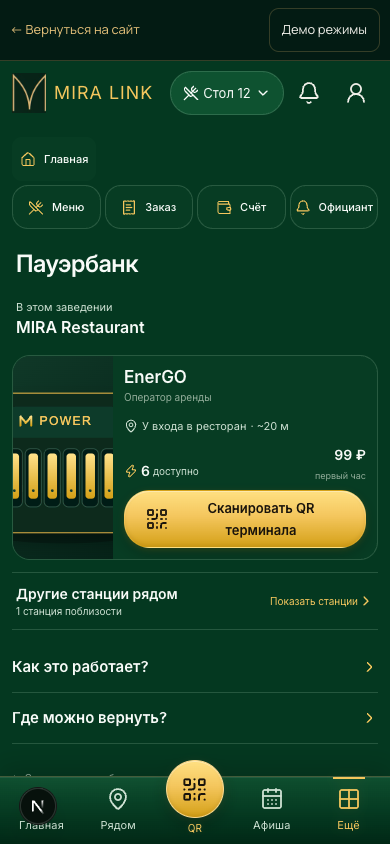
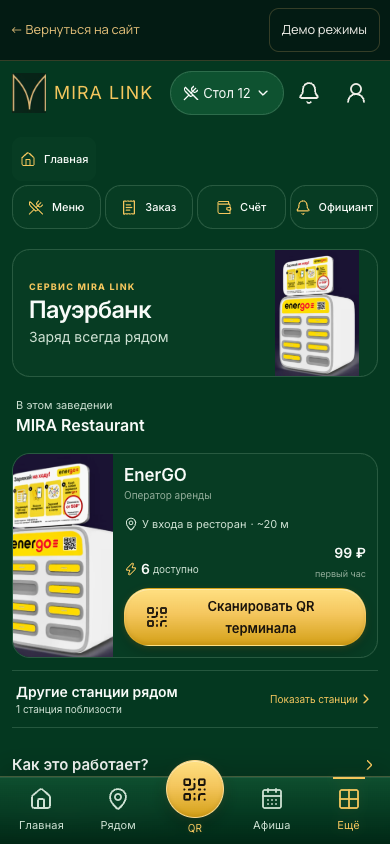
Use real EnerGO station imagery

diff --git a/components/guest/guest-powerbank-service.module.css b/components/guest/guest-powerbank-service.module.css
@@ -1,14 +1,15 @@
 .screen{display:grid;min-width:0;gap:12px;color:var(--guest-text-primary)}
 .screen :is(h2,h3,p){margin:0}.screen button{font-family:inherit}.loading{min-height:180px;display:grid;place-items:center;color:var(--guest-text-secondary)}
 .pageTitle{padding:0 4px}.pageTitle h2{font-size:24px;line-height:30px}.stateLabel,.contextLabel{display:block;color:var(--guest-accent);font-size:9px;line-height:13px;font-weight:750;letter-spacing:.14em}
+.hero{display:grid;min-height:126px;grid-template-columns:minmax(0,1fr) 120px;overflow:hidden;border:1px solid var(--guest-border);border-radius:18px;background:var(--guest-surface)}.hero>div{display:grid;align-content:center;gap:2px;padding:14px 6px 14px 16px}.hero h2{font-size:24px;line-height:30px}.hero p{color:var(--guest-text-secondary);font-size:14px}.hero>img{width:120px;height:126px;object-fit:contain;pointer-events:none;user-select:none}
 .context{display:flex;min-height:52px;align-items:center;justify-content:space-between;gap:12px;padding:2px 4px}.context>div{display:grid}.context>div>span{color:var(--guest-text-secondary);font-size:11px}.context>div>strong{font-size:16px}.context>span{display:flex;align-items:center;gap:5px;color:var(--guest-accent);font-size:12px;white-space:nowrap}.context svg{width:16px}
-.offers{display:grid;gap:10px}.offer{display:grid;grid-template-columns:100px minmax(0,1fr);min-height:166px;overflow:hidden;border:1px solid var(--guest-border);border-radius:18px;background:var(--guest-surface)}.offer>img{width:100px;height:100%;object-fit:cover}.offerBody{display:grid;min-width:0;gap:7px;padding:11px}.offerHeading{display:flex;align-items:start;justify-content:space-between;gap:8px}.offerHeading>div{display:grid;min-width:0}.offerHeading strong{font-size:17px}.offerHeading span{color:var(--guest-text-muted);font-size:10px}.offerHeading em{flex:0 0 auto;padding:3px 6px;border:1px solid var(--guest-border-strong);border-radius:999px;color:var(--guest-accent);font-size:8px;font-style:normal}.offerBody>p{display:flex;align-items:center;gap:4px;color:var(--guest-text-secondary);font-size:11px;line-height:15px}.offerBody>p svg{width:14px}.availability{display:flex;align-items:end;justify-content:space-between;gap:8px}.availability>span{display:flex;align-items:center;gap:3px;color:var(--guest-text-secondary);font-size:10px}.availability>span:last-child{display:grid;text-align:right}.availability strong{color:var(--guest-text-primary);font-size:14px}.availability small{color:var(--guest-text-muted);font-size:9px}.availability svg{width:14px;color:var(--guest-accent)}.offerBody>button{min-height:44px!important;padding-block:6px!important;font-size:13px!important}
+.offers{display:grid;gap:10px}.offer{display:grid;grid-template-columns:100px minmax(0,1fr);min-height:166px;overflow:hidden;border:1px solid var(--guest-border);border-radius:18px;background:var(--guest-surface)}.offer>img{width:100px;height:100%;object-fit:cover;object-position:center 45%;pointer-events:none;user-select:none}.offerBody{display:grid;min-width:0;gap:7px;padding:11px}.offerHeading{display:flex;align-items:start;justify-content:space-between;gap:8px}.offerHeading>div{display:grid;min-width:0}.offerHeading strong{font-size:17px}.offerHeading span{color:var(--guest-text-muted);font-size:10px}.offerHeading em{flex:0 0 auto;padding:3px 6px;border:1px solid var(--guest-border-strong);border-radius:999px;color:var(--guest-accent);font-size:8px;font-style:normal}.offerBody>p{display:flex;align-items:center;gap:4px;color:var(--guest-text-secondary);font-size:11px;line-height:15px}.offerBody>p svg{width:14px}.availability{display:flex;align-items:end;justify-content:space-between;gap:8px}.availability>span{display:flex;align-items:center;gap:3px;color:var(--guest-text-secondary);font-size:10px}.availability>span:last-child{display:grid;text-align:right}.availability strong{color:var(--guest-text-primary);font-size:14px}.availability small{color:var(--guest-text-muted);font-size:9px}.availability svg{width:14px;color:var(--guest-accent)}.offerBody>button{min-height:44px!important;padding-block:6px!important;font-size:13px!important}
 .actionRow{display:flex;width:100%;min-height:58px;align-items:center;justify-content:space-between;gap:12px;padding:8px 4px;border:0;border-block:1px solid var(--guest-border);border-radius:0;color:var(--guest-text-primary);background:transparent;text-align:left}.actionRow>span:first-child{display:grid}.actionRow strong{font-size:14px}.actionRow small{color:var(--guest-text-secondary);font-size:10px}.actionRow>span:last-child{display:flex;align-items:center;color:var(--guest-accent);font-size:10px;white-space:nowrap}.actionRow svg{width:16px}
 .activeRental{display:grid;gap:13px;padding:16px;border:1px solid var(--guest-border-strong);border-radius:20px;background:linear-gradient(145deg,var(--guest-surface-elevated),var(--guest-surface));box-shadow:var(--accent-glow)}.rentalTitle{display:flex;align-items:center;justify-content:space-between;gap:12px}.rentalTitle h3{font-size:21px}.rentalTitle p{color:var(--guest-text-secondary)}.rentalTitle>svg{width:42px;height:42px;color:var(--guest-accent)}.rentalFacts{display:grid;grid-template-columns:repeat(3,minmax(0,1fr));gap:6px}.rentalFacts>span{display:grid;gap:2px;padding:8px;border-radius:12px;background:var(--guest-surface-soft);color:var(--guest-text-secondary);font-size:9px}.rentalFacts strong{color:var(--guest-text-primary);font-size:13px}.activeRental>button{min-height:48px}
 .returnState{display:grid;gap:12px}.returnState>div:nth-child(2){display:grid;gap:3px}.returnState h3{font-size:23px}.returnState p{color:var(--guest-text-secondary);font-size:12px;line-height:17px}.backAction{display:flex;width:max-content;min-height:44px;align-items:center;gap:6px;padding:0;border:0;background:transparent;color:var(--guest-accent)}.backAction svg{width:18px}.returnList{display:grid;gap:8px}.returnStation{display:flex;align-items:center;justify-content:space-between;gap:10px;padding:12px;border:1px solid var(--guest-border);border-radius:16px;background:var(--guest-surface)}.returnStation>div{display:grid}.returnStation span,.returnStation small{color:var(--guest-text-secondary);font-size:10px}.returnStation>div:last-child{text-align:right}.returnStation>div:last-child>strong{color:var(--guest-accent);font-size:18px}.returnStation button{min-height:44px!important;margin-top:5px;padding:5px 8px!important;font-size:11px!important}
 .emptyState{display:grid;justify-items:center;gap:9px;padding:22px 16px;border:1px solid var(--guest-border);border-radius:20px;background:var(--guest-surface);text-align:center}.emptyState>svg{width:34px;height:34px;color:var(--guest-accent)}.emptyState h3{font-size:19px}.emptyState p{max-width:290px;color:var(--guest-text-secondary);font-size:12px;line-height:17px}.emptyState>div{display:grid;width:100%;grid-template-columns:1fr 1fr;gap:8px}.emptyState button{min-height:46px!important;padding-inline:10px!important;font-size:12px!important}
 .help{display:grid}.help details{border-bottom:1px solid var(--guest-border)}.help summary{display:flex;min-height:50px;align-items:center;justify-content:space-between;cursor:pointer;font-weight:600;list-style:none}.help summary::-webkit-details-marker{display:none}.help summary svg{width:17px;color:var(--guest-accent);transition:transform 160ms ease}.help details[open] summary svg{transform:rotate(90deg)}.help ol,.help p{margin:0 0 12px;padding-left:22px;color:var(--guest-text-secondary);font-size:12px;line-height:19px}.help p{padding-left:0}
 .demoTools{padding:0 2px;color:var(--guest-text-muted)}.demoTools summary{min-height:44px;align-content:center;cursor:pointer;font-size:10px}.demoTools label{display:grid;gap:5px;padding-bottom:10px;font-size:10px}.demoTools select{min-height:44px;border:1px solid var(--guest-border);border-radius:12px;padding:8px;color:var(--guest-text-primary);background:var(--guest-surface)}
-.confirmation{display:grid;gap:12px}.confirmation>img{width:100%;height:132px;object-fit:cover;border-radius:14px}.confirmation>div{display:grid}.confirmation>div>span,.confirmation small{color:var(--guest-text-secondary);font-size:11px}.confirmation>div>strong{font-size:18px}.confirmation>p{display:flex;align-items:flex-start;gap:7px;padding:10px;border-radius:12px;background:var(--guest-surface-soft);color:var(--guest-text-secondary);font-size:11px;line-height:16px}.confirmation>p svg{width:18px;flex:0 0 18px;color:var(--guest-accent)}.confirmation>button{width:100%}
+.confirmation{display:grid;gap:12px}.confirmation>img{width:100%;height:132px;object-fit:contain;border-radius:14px;background:var(--guest-surface-soft);pointer-events:none;user-select:none}.confirmation>div{display:grid}.confirmation>div>span,.confirmation small{color:var(--guest-text-secondary);font-size:11px}.confirmation>div>strong{font-size:18px}.confirmation>p{display:flex;align-items:flex-start;gap:7px;padding:10px;border-radius:12px;background:var(--guest-surface-soft);color:var(--guest-text-secondary);font-size:11px;line-height:16px}.confirmation>p svg{width:18px;flex:0 0 18px;color:var(--guest-accent)}.confirmation>button{width:100%}
 .nearbyList{display:grid;gap:8px}.nearbyList article{display:grid;grid-template-columns:36px minmax(0,1fr) auto;align-items:center;gap:8px;padding:10px;border:1px solid var(--guest-border);border-radius:14px;background:var(--guest-surface)}.nearbyList article>svg{width:22px;color:var(--guest-accent)}.nearbyList article>div{display:grid}.nearbyList span{color:var(--guest-text-secondary);font-size:10px}.nearbyList article>span:last-child{white-space:nowrap}
 @container guest-product-surface (max-width:380px){.offer{grid-template-columns:92px minmax(0,1fr)}.offer>img{width:92px}.offerHeading em{display:none}.rentalFacts{grid-template-columns:1fr 1fr}.rentalFacts>span:last-child{grid-column:1/-1}.actionRow>span:last-child{font-size:0}.actionRow>span:last-child svg{width:20px}.emptyState>div{grid-template-columns:1fr}}

diff --git a/tests/e2e/guest-powerbank.spec.ts b/tests/e2e/guest-powerbank.spec.ts
@@ -3,7 +3,9 @@ import {test,expect,type Page} from '@playwright/test';
 import {getGuestThemePreset} from '../../lib/guest-theme';
 
 const output='docs/QA/guest-powerbank-2-1';
+const assetOutput='docs/QA/guest-powerbank-2-1a';
 mkdirSync(output,{recursive:true});
+mkdirSync(assetOutput,{recursive:true});
 
 async function setScenario(page:Page,value:'one'|'none'|'active'|'return'|'error'){
  const details=page.locator('details').filter({hasText:'Состояния пауэрбанка · демо'});
@@ -27,8 +29,11 @@ test('Powerbank 2.1 EnerGO-only launch states and rental flow',async({page})=>{
  await page.getByRole('button',{name:'Сканировать QR стола №12',exact:true}).click();
  await page.getByRole('button',{name:'Пауэрбанк',exact:true}).click();
  await expect(page.getByRole('heading',{name:'Пауэрбанк',exact:true})).toBeVisible();
- await expect(page.getByText('Заряд всегда рядом',{exact:true})).toHaveCount(0);
- await expect(page.getByText('СЕРВИС MIRA LINK',{exact:true})).toHaveCount(0);
+ await expect(page.getByText('Заряд всегда рядом',{exact:true})).toBeVisible();
+ await expect(page.getByText('СЕРВИС MIRA LINK',{exact:true})).toBeVisible();
+ const heroImage=page.getByRole('img',{name:'Реальный терминал EnerGO'});
+ await expect(heroImage).toHaveAttribute('src','/images/energo-terminal-primary.webp');
+ await expect(heroImage).toHaveCSS('object-fit','contain');
  await expect(page.getByText('MIRA Restaurant',{exact:true}).last()).toBeVisible();
  await expect(page.getByRole('region',{name:'Текущее заведение'}).getByText('Стол 12',{exact:true})).toHaveCount(0);
  await expect(page.getByLabel('Предложение EnerGO')).toContainText('6 доступно');
@@ -38,14 +43,21 @@ test('Powerbank 2.1 EnerGO-only launch states and rental flow',async({page})=>{
  await expect(page.getByText('Рекомендуем',{exact:true})).toHaveCount(0);
  await expect(page.getByText('6 доступно',{exact:true})).toHaveCount(1);
  await expect(page.getByText('Предоставляет EnerGO',{exact:true})).toHaveCount(0);
+ await expect(page.getByText('M POWER',{exact:true})).toHaveCount(0);
  await expect(page.getByText('Оператор аренды',{exact:true})).toBeVisible();
- await expect(page.getByLabel('Предложение EnerGO').locator('img')).toHaveJSProperty('complete',true);
- expect(await page.getByLabel('Предложение EnerGO').locator('img').evaluate((image:HTMLImageElement)=>image.naturalWidth)).toBeGreaterThan(0);
+ const offerImage=page.getByLabel('Предложение EnerGO').locator('img');
+ await expect(offerImage).toHaveJSProperty('complete',true);
+ await expect(offerImage).toHaveCSS('object-fit','cover');
+ expect(await offerImage.evaluate((image:HTMLImageElement)=>image.naturalWidth)).toBeGreaterThan(0);
  await expect(page.locator('.guest-shortcuts')).not.toContainText('Пауэрбанк');
  await expect(page.getByRole('navigation',{name:'Основная навигация гостя'})).toBeVisible();
  await expect(page.getByText('Готово',{exact:true})).toBeHidden({timeout:4000});
  expect(await page.evaluate(()=>document.documentElement.scrollWidth-innerWidth)).toBe(0);
+ await page.evaluate(()=>scrollTo({top:0,behavior:'instant'}));
  await page.screenshot({path:`${output}/01-energo-only-normal-390.png`});
+ await page.screenshot({path:`${assetOutput}/01-complete-powerbank-page-390.png`,fullPage:true});
+ await page.locator('[data-powerbank-scenario] header').first().screenshot({path:`${assetOutput}/02-real-energo-hero-390.png`});
+ await page.getByLabel('Предложение EnerGO').screenshot({path:`${assetOutput}/03-real-energo-card-390.png`});
 
  await page.getByRole('button',{name:'Другие станции рядом',exact:false}).click();
  const nearby=page.getByRole('dialog');
@@ -96,6 +108,8 @@ test('Powerbank 2.1 EnerGO-only launch states and rental flow',async({page})=>{
  await setScenario(page,'one');
  await expect(page.getByText('Provider B',{exact:true})).toHaveCount(0);
  expect(await page.evaluate(()=>document.documentElement.scrollWidth-innerWidth)).toBe(0);
+ await page.evaluate(()=>scrollTo({top:0,behavior:'instant'}));
+ await page.screenshot({path:`${assetOutput}/05-mira-light-390.png`});
  await setTheme(page,'classic');
  await setScenario(page,'one');
  await expect(page.getByText('Provider B',{exact:true})).toHaveCount(0);
@@ -104,6 +118,8 @@ test('Powerbank 2.1 EnerGO-only launch states and rental flow',async({page})=>{
  await setScenario(page,'one');
  await expect(page.getByText('Provider B',{exact:true})).toHaveCount(0);
  expect(await page.evaluate(()=>document.documentElement.scrollWidth-innerWidth)).toBe(0);
+ await page.evaluate(()=>scrollTo({top:0,behavior:'instant'}));
+ await page.screenshot({path:`${assetOutput}/04-mira-dark-390.png`});
  await page.screenshot({path:`${output}/06-mira-dark-390.png`});
 });
 

diff --git a/components/guest/guest-powerbank-service.tsx b/components/guest/guest-powerbank-service.tsx
@@ -24,7 +24,7 @@ function stationCountLabel(count:number){const mod100=count%100,mod10=count%10;c
 
 function StationOffer({station,provider,showRecommendation,onScan}:{station:PowerbankStation;provider?:PowerbankProvider;showRecommendation:boolean;onScan:()=>void}){
  return <article className={styles.offer} aria-label={`Предложение ${provider?.name??'провайдера'}`}>
-  <img src={station.image} alt="Станция с пауэрбанками для аренды"/>
+  <img src={station.image} alt={`Терминал ${provider?.name??'аренды пауэрбанков'}`}/>
   <div className={styles.offerBody}>
    <div className={styles.offerHeading}><div><strong>{provider?.name}</strong><span>Оператор аренды</span></div>{showRecommendation&&station.recommended&&<em>Рекомендуем</em>}</div>
    <p><MapPin aria-hidden="true"/>{station.locationLabel}{station.distanceMeters!==undefined&&<span>· {distanceLabel(station.distanceMeters)}</span>}</p>
@@ -62,9 +62,10 @@ export function GuestPowerbankService({venue,activeRentalId,qrTerminalId,busy=fa
  if(!view)return <section className={styles.screen} aria-label="Пауэрбанк"><div className={styles.loading}>Проверяем доступность…</div></section>;
  const showRental=scenario==='active'&&view.activeRental;
  const showReturn=scenario==='return'&&view.activeRental;
+ const heroStation=!showRental&&!showReturn&&!view.providerError&&scenario==='one'?view.currentStations[0]:undefined;
 
  return <section className={styles.screen} aria-labelledby="powerbank-title" data-powerbank-scenario={scenario}>
-  <header className={styles.pageTitle}><h2 id="powerbank-title">Пауэрбанк</h2></header>
+  {heroStation?<header className={styles.hero}><div><span className={styles.contextLabel}>СЕРВИС MIRA LINK</span><h2 id="powerbank-title">Пауэрбанк</h2><p>Заряд всегда рядом</p></div><img src={heroStation.image} alt="Реальный терминал EnerGO" fetchPriority="high"/></header>:<header className={styles.pageTitle}><h2 id="powerbank-title">Пауэрбанк</h2></header>}
 
   {showRental&&<section className={styles.activeRental} aria-labelledby="active-rental-title">
    <span className={styles.stateLabel}>АКТИВНАЯ АРЕНДА</span>
@@ -98,7 +99,7 @@ export function GuestPowerbankService({venue,activeRentalId,qrTerminalId,busy=fa
   <details className={styles.demoTools}><summary>Состояния пауэрбанка · демо</summary><label>Сценарий<select aria-label="Сценарий пауэрбанка" value={scenario} onChange={event=>setScenario(event.target.value as PowerbankDemoScenario)}>{Object.entries(scenarioLabels).map(([id,label])=><option key={id} value={id}>{label}</option>)}</select></label></details>
 
   <MiraBottomSheet title="Пауэрбанк" description={selected?`${providerFor(view.providers,selected)?.name} · ${selected.locationLabel}`:undefined} open={Boolean(selected)} onClose={()=>setSelected(undefined)}>
-   {selected&&<div className={styles.confirmation}><img src={selected.image} alt="Станция аренды пауэрбанков"/><div><span>Тариф</span><strong>{selected.tariff?.summary}</strong>{selected.tariff?.detail&&<small>{selected.tariff.detail}</small>}</div><p><ShieldCheck aria-hidden="true"/>Перед началом аренды проверьте тариф и выбранную станцию.</p><MiraButton loading={starting||busy} onClick={()=>void startRental()}>Начать аренду</MiraButton></div>}
+   {selected&&<div className={styles.confirmation}><img src={selected.image} alt={`Терминал ${providerFor(view.providers,selected)?.name??'аренды пауэрбанков'}`}/><div><span>Тариф</span><strong>{selected.tariff?.summary}</strong>{selected.tariff?.detail&&<small>{selected.tariff.detail}</small>}</div><p><ShieldCheck aria-hidden="true"/>Перед началом аренды проверьте тариф и выбранную станцию.</p><MiraButton loading={starting||busy} onClick={()=>void startRental()}>Начать аренду</MiraButton></div>}
   </MiraBottomSheet>
 
   <MiraBottomSheet title="Станции рядом" description={view.providers.length>1?'Совместимые предложения разных провайдеров':'Доступные станции '+(view.providers[0]?.name??'')} open={nearbyOpen} onClose={()=>setNearbyOpen(false)}>

diff --git a/lib/powerbank.ts b/lib/powerbank.ts
@@ -98,7 +98,7 @@ export class PowerbankService{
  async getCompatibleReturnStations(rental:PowerbankRental){const adapter=this.adapters.get(rental.providerId);if(!adapter)return [];return (await adapter.getReturnStations(rental)).filter(station=>rental.compatibleProviderIds.includes(station.providerId))}
 }
 
-const stationImage='/images/powerbank-station-demo.svg';
+const stationImage='/images/energo-terminal-primary.webp';
 export const demoPowerbankProviders:PowerbankProvider[]=[
  {id:'energo-demo',name:'EnerGO',adapterType:'demo-energo',status:'available',enabled:true,demo:true},
  {id:'provider-b-test',name:'Provider B',adapterType:'demo-provider-b',status:'available',enabled:false,demo:true},
